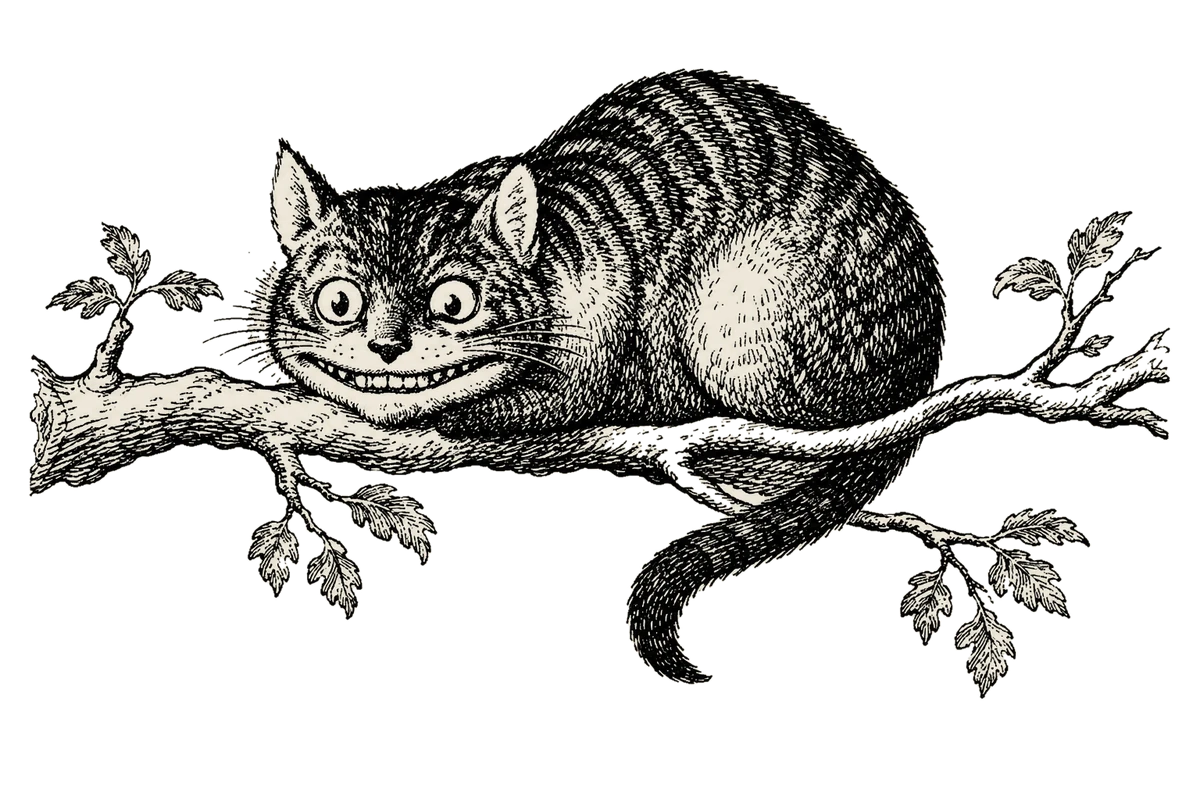
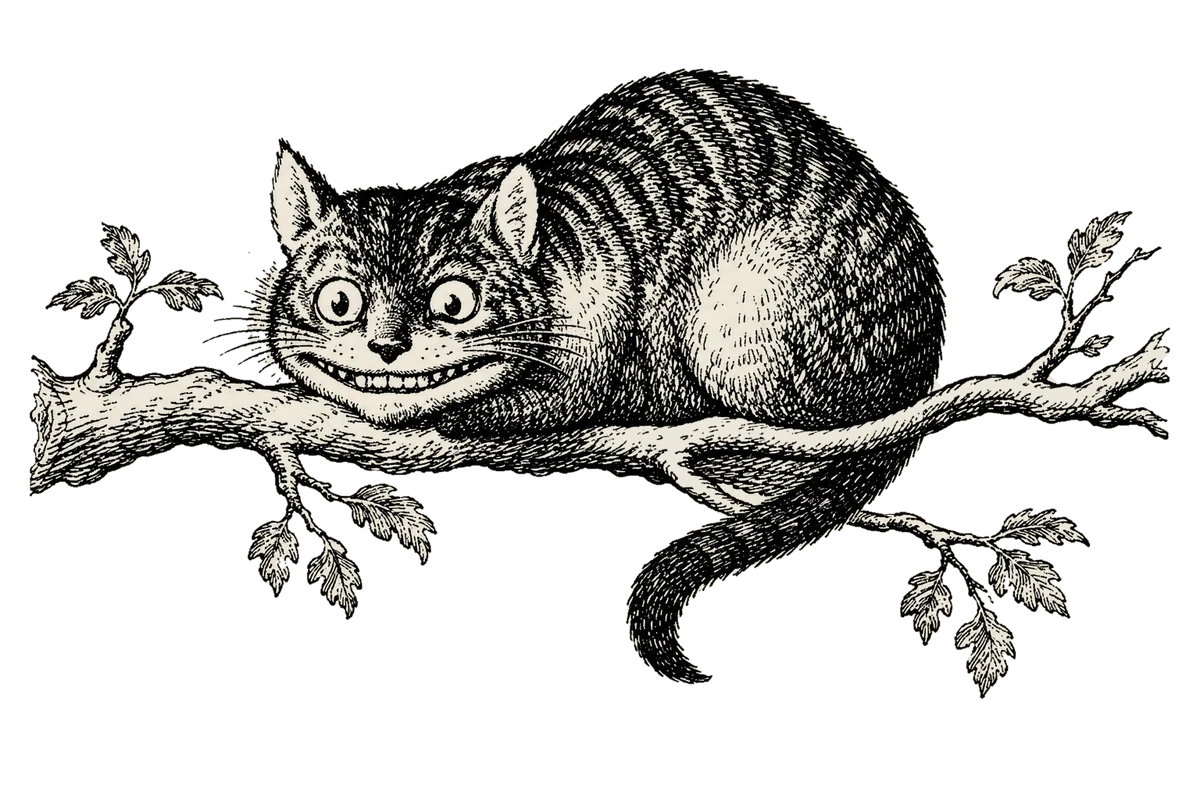
Cheshire Cat's bough: close the see-through branch (three drawings)
Byte copies from PTRR (PR #56, #57): cheshire_bough, cheshire_paw and
cheshire_bough_empty had the light top of the branch cut away with the white.

Claude-Session: https://claude.ai/code/session_01VBVjvB1KBiUD8TAi8f9SuS

Changed region(s): [[0.4933, 0.5, 0.74, 0.625], [0.7708, 0.4375, 0.9867, 0.5312], [0.74, 0.5, 0.7708, 0.5312]]

diff --git a/PROVENANCE.md b/PROVENANCE.md
@@ -163,8 +163,8 @@ Every shipped asset is listed here with its source. AI-generated or AI-modified 
 | ai_alice_walk_pair | `public/art/ai/poses/walk_a.webp`, `walk_b.webp` | AI | Alice walking, two matching steps in one drawing (owner, 2026-10-13); original in `source/ai/alice_walk_pair.webp` | OpenAI ChatGPT (GPT-6 chat); OpenAI image generation, exact image model not disclosed; received 2026-10-13 | Whole image generated. Split in two, cut out, paper-tinted and scaled to the standing Alice (`tools/compose_poses.py`). Replaces the earlier walk_a and the walk_b phone screenshot (both kept in source/ai). | 2026-10-13 | Owner (generated), Claude Code (processed) |
 | rabbit_white | `public/art/rabbit_w01-1_white.png`, `public/art/ai/ch1/rabbit_*.webp`, `public/art/ai/ch2/rabbit2_*.webp` | (see each Rabbit row) | The same Rabbit drawings | — | Paper tint taken off so he is pure white, pink eyes kept (owner, 2026-10-13; `tools/white_rabbit.py`). | 2026-10-13 | Claude Code |
 | ai_caterpillar_sit | `public/art/ai/ch5/caterpillar_sit.webp` | AI | Chapter V prompt 9 (docs/ASSETS_MASTER.md); original in `source/ai/caterpillar_sit.png` | OpenAI gpt-image-2 via the API (generated by Claude Code, 2026-10-13), from Tenniel's plate 5.1 cropped to the Caterpillar (source/plates/tenniel_w05-1_caterpillar_only.png) and the first version (source/ai/caterpillar_sit_v1.png) | Whole image generated. Cut out, the drawn mushroom cap removed, the Caterpillar coloured blue (COLOR.md) (`tools/ch5_art.py`). Used in Chapter IV's end and Chapter V. | 2026-10-13 | Owner (approved), Claude Code (generated, processed) |
-| ai_cheshire_bough | `public/art/ai/ch6/cheshire_bough.webp`, `cheshire_grin.webp` | AI | Chapter VI prompt 28; original in `source/ai/cheshire_bough.png`, from Tenniel's plate 6.4 cropped to the Cat (`source/plates/tenniel_w06-4_cheshire_only.png`) | OpenAI gpt-image-2.5-sunburst via the API (generated by Claude Code, 2026-10-13) | Whole image generated. Cut out on its full canvas; the grin also cut on its own layer (`tools/ch6_art.py`). Used in Chapter VI, the wood. | 2026-10-13 | Owner (approved), Claude Code (generated, processed) |
-| ai_cheshire_bough_empty | `public/art/ai/ch6/cheshire_bough_empty.webp` | AI | The same bough without the Cat, generated from `source/ai/cheshire_bough.png`; original in `source/ai/cheshire_bough_empty.png` | OpenAI gpt-image-2.5-sunburst via the API (generated by Claude Code, 2026-10-13) | Whole image generated. Cut out on the same canvas so it lines up (`tools/ch6_art.py`). Stays when the Cat vanishes. | 2026-10-13 | Claude Code |
+| ai_cheshire_bough | `public/art/ai/ch6/cheshire_bough.webp`, `cheshire_grin.webp` | AI | Chapter VI prompt 28; original in `source/ai/cheshire_bough.png`, from Tenniel's plate 6.4 cropped to the Cat (`source/plates/tenniel_w06-4_cheshire_only.png`) | OpenAI gpt-image-2.5-sunburst via the API (generated by Claude Code, 2026-10-13) | Whole image generated. Cut out on its full canvas; the grin also cut on its own layer (`tools/ch6_art.py`). Used in Chapter VI, the wood. See-through holes along the top of the branch (cut away with the white), closed with `tools/patch_cutout.py --holes` (2026-11-21). | 2026-10-13 | Owner (approved), Claude Code (generated, processed) |
+| ai_cheshire_bough_empty | `public/art/ai/ch6/cheshire_bough_empty.webp` | AI | The same bough without the Cat, generated from `source/ai/cheshire_bough.png`; original in `source/ai/cheshire_bough_empty.png` | OpenAI gpt-image-2.5-sunburst via the API (generated by Claude Code, 2026-10-13) | Whole image generated. Cut out on the same canvas so it lines up (`tools/ch6_art.py`). Stays when the Cat vanishes. See-through holes along the top of the branch, closed with `tools/patch_cutout.py --holes` (2026-11-21). | 2026-10-13 | Claude Code |
 | ai_cheshire_hearth | `public/art/ai/ch6/cheshire_hearth.webp` | AI | Chapter VI prompt 22; original in `source/ai/cheshire_hearth.png`, from `source/ai/cheshire_bough.png` cropped to the Cat (pose from a description of plate 6.2) | OpenAI gpt-image-2.5-sunburst via the API (generated by Claude Code, 2026-10-13) | Whole image generated. Cut out from white (`tools/ch6_art.py`). Used in Chapter VI, the kitchen. | 2026-10-13 | Owner (approved), Claude Code (generated, processed) |
 | ai_duchess_nurse | `public/art/ai/ch6/duchess_nurse.webp` | AI | Chapter VI prompt 14; original in `source/ai/duchess_nurse.png`, from Tenniel's plate 6.2 cropped to the Duchess and baby (`source/plates/tenniel_w06-2_duchess_only.png`); redrawn once without the stool (owner) | OpenAI gpt-image-2.5-sunburst via the API (generated by Claude Code, 2026-10-14) | Whole image generated. Cut out from white (`tools/ch6_art.py`). Used in Chapter VI, the kitchen (sitting, the baby in her lap). | 2026-10-14 | Owner (approved), Claude Code (generated, processed) |
 | ai_footmen | `public/art/ai/ch6/fish_footman.webp`, `frog_footman.webp`, `frog_footman_sit.webp`, `footmen_bow.webp` | AI | Chapter VI prompts 10–13; originals in `source/ai/` under the same names, from Tenniel's plate 6.1 cropped to each Footman (`source/plates/tenniel_w06-1_fish_footman_only.png`, `tenniel_w06-1_frog_footman_only.png`) | OpenAI gpt-image-2.5-sunburst via the API (generated by Claude Code, 2026-10-14) | Whole images generated. Cut out from white (`tools/ch6_art.py`). Used in Chapter VI, the doorstep. | 2026-10-14 | Owner (approved), Claude Code (generated, processed) |
@@ -172,7 +172,7 @@ Every shipped asset is listed here with its source. AI-generated or AI-modified 
 | ai_baby_pig | `public/art/ai/ch6/baby_starfish.webp`, `baby_snout.webp`, `pig_trot.webp` | AI | Chapter VI prompts 19–21; originals in `source/ai/` under the same names, from the baby cropped from `source/ai/duchess_nurse.png` (`source/plates/duchess_nurse_baby_crop.png`); the pig from a description | OpenAI gpt-image-2.5-sunburst via the API (generated by Claude Code, 2026-10-14) | Whole images generated. Cut out from white (`tools/ch6_art.py`). Used in Chapter VI, the kitchen and the wood. | 2026-10-14 | Owner (approved), Claude Code (generated, processed) |
 | ai_kitchen_back | `public/art/ai/ch6/kitchen_back.webp` | AI | Chapter VI prompt 23; originals in `source/ai/` under the same names, from Tenniel's plate 6.2 (`source/plates/tenniel_w06-2_kitchen_victorianweb.jpg`) | OpenAI gpt-image-2.5-sunburst via the API (generated by Claude Code, 2026-10-14) | Whole images generated. Cut out from white (`tools/ch6_art.py`). Used in Chapter VI, the kitchen's back wall (cropped above the floor, paper-tinted). | 2026-10-14 | Owner (approved), Claude Code (generated, processed) |
 | ai_ch6_sets | `public/art/ai/ch6/little_house.webp`, `march_hare_house.webp`, `kitchen_side.webp`, `thrown_*.webp` | AI | Chapter VI prompts 25, 32, 33 and the kitchen's side wall; originals `source/ai/little_house.png` (door from Tenniel's plate 6.1, `source/plates/tenniel_w06-1_door_only.png`), `march_hare_house.png`, `kitchen_side.png`, `thrown_things.png` | OpenAI gpt-image-2.5-sunburst via the API (generated by Claude Code, 2026-10-14) | Whole images generated. Cut out; the thrown things split into pieces (`tools/ch6_art.py`). Used in Chapters V, VI and VII. | 2026-10-14 | Owner (approved), Claude Code (generated, processed) |
-| ai_ch6_last | `public/art/ai/ch6/cheshire_paw.webp`, `public/art/ai/vignettes/axis.webp`, `pigs.webp` | AI | Chapter VI prompt 29 (the Cat waving, redrawn from `source/ai/cheshire_bough.png` on the same canvas) and the chapter's two thoughts; originals `source/ai/cheshire_paw.png`, `vignette_axis.png`, `vignette_pigs.png` | OpenAI gpt-image-2.5-sunburst via the API (generated by Claude Code, 2026-10-14) | Whole images generated. Cut out on the full canvas / fitted to the thought oval (`tools/ch6_art.py`). Used in Chapter VI. | 2026-10-14 | Owner (approved), Claude Code (generated, processed) |
+| ai_ch6_last | `public/art/ai/ch6/cheshire_paw.webp`, `public/art/ai/vignettes/axis.webp`, `pigs.webp` | AI | Chapter VI prompt 29 (the Cat waving, redrawn from `source/ai/cheshire_bough.png` on the same canvas) and the chapter's two thoughts; originals `source/ai/cheshire_paw.png`, `vignette_axis.png`, `vignette_pigs.png` | OpenAI gpt-image-2.5-sunburst via the API (generated by Claude Code, 2026-10-14) | Whole images generated. Cut out on the full canvas / fitted to the thought oval (`tools/ch6_art.py`). Used in Chapter VI. cheshire_paw: see-through holes along the top of the branch, closed with `tools/patch_cutout.py --holes` (2026-11-21). | 2026-10-14 | Owner (approved), Claude Code (generated, processed) |
 | ai_ch7_tea_party | `public/art/ai/ch7/*.webp` (the Hatter ×9, the March Hare ×2, the Dormouse ×2) | AI | Chapter VII prompts (the Hatter, March Hare, Dormouse) and Chapter XI's Hatter; first drawings `source/ai/hatter_stand.png`, `marchhare_stand.png`, `dormouse_sleep.png` from Tenniel's plates 7.1–7.3 cropped to each (`source/plates/tenniel_w07-*_only.png`), the other poses from those | OpenAI gpt-image-2.5-sunburst via the API (generated by Claude Code, 2026-10-14) | Whole images generated. Cut out (`tools/ch7_art.py`). Used in Chapters VII, XI and XII. | 2026-10-14 | Owner (approved), Claude Code (generated, processed) |
 | ai_court_cards | `public/art/ai/ch8/*.webp` (the Queen ×7, the King ×6, the Knave ×3, the executioner) | AI | Chapter VIII–XII prompts; first drawings `source/ai/queen_stand.png`, `king_stand.png` from Tenniel's plates 8.2 and 8.4 cropped to each (`source/plates/tenniel_w08-*_only.png`), the other poses from those; hearts filled red and face flushes coloured by the model (a second pass where needed) | OpenAI gpt-image-2.5-sunburst via the API (generated by Claude Code, 2026-10-14) | Whole images generated. Cut out keeping colour, card red snapped to the suit red (`tools/ch8_art.py`). Used in Chapters VIII–XII. | 2026-10-14 | Owner (approved), Claude Code (generated, processed) |
 | ai_gardeners | `public/art/ai/ch8/two_*.webp`, `five_*.webp`, `seven_*.webp` | AI | Chapter VIII: the gardeners Two, Five and Seven of Spades (standing, painting, bowing, running; the Two kneeling); first drawings from Tenniel's plate 8.1 cropped to one gardener (`source/plates/tenniel_w08-1_gardener_only.png`), the poses from those; every pip count checked by eye | OpenAI gpt-image-2.5-sunburst via the API (generated by Claude Code, 2026-10-14) | Whole images generated. Cut out keeping the red paint (`tools/ch8_art.py`). Used in Chapter VIII. | 2026-10-14 | Owner (approved), Claude Code (generated, processed) |
